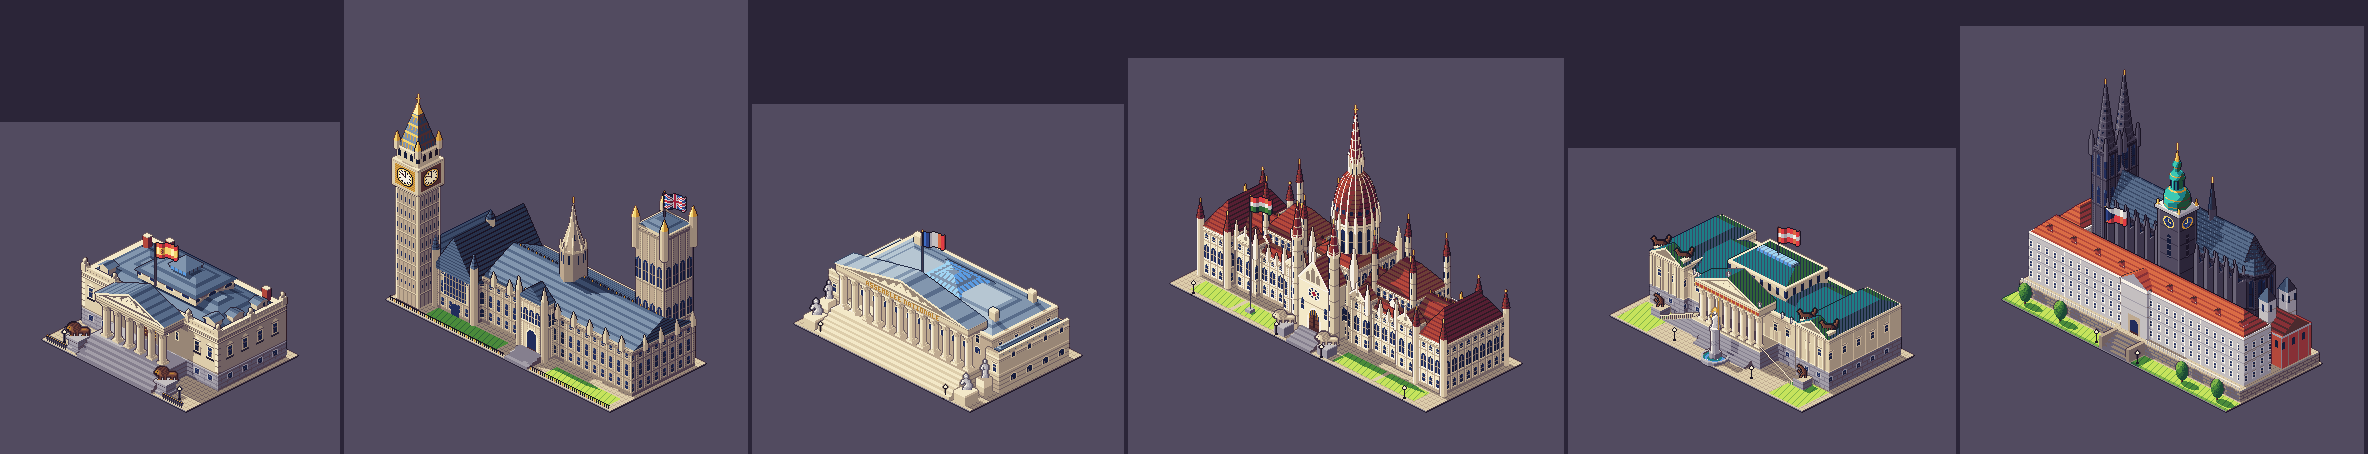
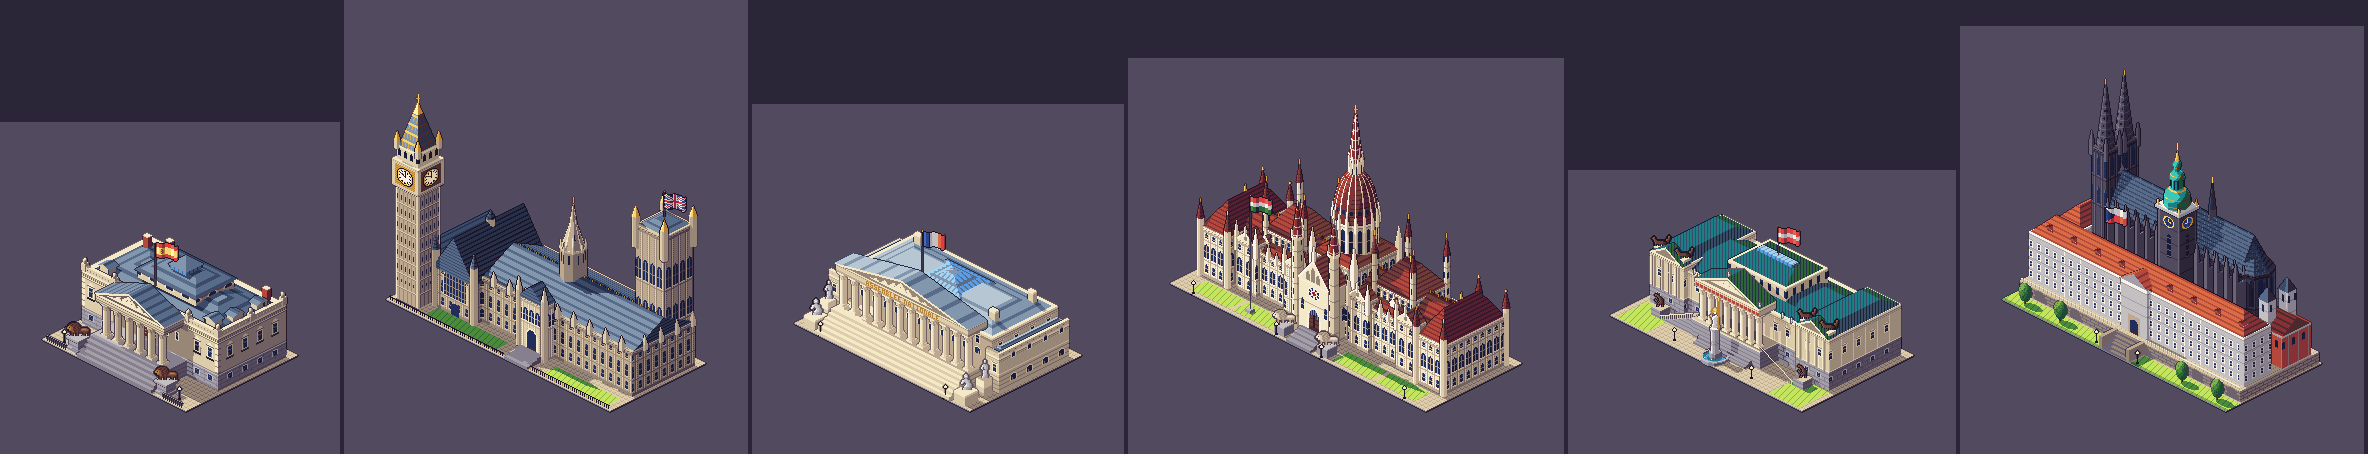
WIP checkpoint: E2, E4 Central/North, special skills (agents in progress)
Claude-Session: https://claude.ai/code/session_01XLEeR6X1vTTU7oCKGiz5UC

Changed region(s): [[0.6562, 0.3084, 0.8438, 0.4009], [0.75, 0.8634, 0.7812, 0.8943], [0.6875, 0.6784, 0.7188, 0.7093]]

diff --git a/src/art/landmarks/budapest/orszaghaz.ts b/src/art/landmarks/budapest/orszaghaz.ts
@@ -88,11 +88,11 @@ export function buildOrszaghaz(state: DamageState): Build {
   );
   const scorch = scorchZones(
     state === 3
-      ? [[4.6, 2.2, 0.9]]
+      ? [[4.6, 3.0, 1.0]]
       : state >= 4
         ? [
-            [4.4, 2.2, 1.4],
-            [11.6, 2.6, 1.2],
+            [4.5, 2.9, 1.4],
+            [11.4, 3.0, 1.2],
             [13.4, 2.2, 0.8],
             [2.2, 2.6, 0.7],
           ]
@@ -104,12 +104,12 @@ export function buildOrszaghaz(state: DamageState): Build {
       ? (u: number, v: number): boolean =>
           scorch(u, v) === 2 && hash(Math.floor(u * 3), Math.floor(v * 3)) < 0.75
       : undefined;
-  if (state >= 3) ov.push({ sprite: 'lm.fx.smoke', u: 4.6, v: 2.2, z: 84 });
+  if (state >= 3) ov.push({ sprite: 'lm.fx.smoke', u: 4.6, v: 2.9, z: 74 });
   if (state >= 4) {
-    ov.push({ sprite: 'lm.fx.fire.l', u: 4.4, v: 2.4, z: 70 });
-    ov.push({ sprite: 'lm.fx.fire.m', u: 11.6, v: 2.6, z: 72 });
+    ov.push({ sprite: 'lm.fx.fire.l', u: 4.5, v: 3.0, z: 66 });
+    ov.push({ sprite: 'lm.fx.fire.m', u: 11.4, v: 3.0, z: 66 });
     ov.push({ sprite: 'lm.fx.fire.m', u: 13.4, v: 2.4, z: 60 });
-    ov.push({ sprite: 'lm.fx.smoke', u: 11.6, v: 2.4, z: 86 });
+    ov.push({ sprite: 'lm.fx.smoke', u: 11.4, v: 2.9, z: 76 });
   }
 
   // Burning windows on the front range (upper row): soot plumes + fire overlays.
@@ -664,8 +664,8 @@ export function buildOrszaghaz(state: DamageState): Build {
   for (const u of [6.6, 9.4, 1.4, 14.6])
     s.sprite(lp.img, 2, 14, u, 5.95, 1, { emit: state >= 2 ? undefined : lp.night });
 
-  banner(s, state, 2.4, 5.6, 4.04, 30, 9, 'ELEG!');
-  banner(s, state, 10.4, 13.6, 4.04, 30, 9, 'NEM!');
+  banner(s, state, 3.7, 5.3, 4.04, 30, 9, 'ELEG!');
+  banner(s, state, 10.7, 12.3, 4.04, 30, 9, 'NEM!');
   rubble(s, state, 1.0, 15.0, 4.1, 4.7, 1, 14, seed);
   rubble(s, state, 6.5, 9.5, 5.0, 5.9, 1, 8, seed + 1);
   if (state >= 4) {

diff --git a/src/art/landmarks/budapest/landmarks.ts b/src/art/landmarks/budapest/landmarks.ts
@@ -449,7 +449,7 @@ function kossuth(): Build {
 
 export const LANDMARKS_BUDAPEST: Readonly<Partial<Record<LandmarkId, SecondaryArt>>> = {
   stStephens: { top: 108, frames: 1, fps: 0, build: stStephens },
-  budaCastle: { top: 84, frames: 1, fps: 0, build: budaCastle },
+  budaCastle: { top: 92, frames: 1, fps: 0, build: budaCastle },
   fishermansBastion: { top: 60, frames: 1, fps: 0, build: fishermansBastion },
   kossuth: { top: 44, frames: 1, fps: 0, build: kossuth },
 };

diff --git a/src/art/landmarks/vienna/index.ts b/src/art/landmarks/vienna/index.ts
@@ -9,7 +9,7 @@ import { LANDMARKS_VIENNA } from './landmarks';
 import { buildParlament, PARLAMENT_D, PARLAMENT_W } from './parlament';
 
 export const vienna: LandmarkCity = {
-  capitol: { w: PARLAMENT_W, d: PARLAMENT_D, top: 72, build: buildParlament },
+  capitol: { w: PARLAMENT_W, d: PARLAMENT_D, top: 50, build: buildParlament },
   stepStone: R.granite,
   landmarks: LANDMARKS_VIENNA,
   flags: { at: AUSTRIA },

diff --git a/src/maps/cities/prague.ts b/src/maps/cities/prague.ts
@@ -626,6 +626,8 @@ export const prague: Blueprint = {
   labels: [
     { text: 'Hradčany', at: [2, 4] },
     { text: 'Petřín', at: [8, 32] },
-    { text: 'Vltava', at: [43, 50] },
+    { text: 'Václavské náměstí', at: [60, 44] },
+    { text: 'Staroměstské náměstí', at: [57, 12] },
+    { text: 'Malá Strana', at: [30, 24] },
   ],
 };

diff --git a/src/maps/cities/vienna.ts b/src/maps/cities/vienna.ts
@@ -614,6 +614,5 @@ export const vienna: Blueprint = {
     { text: 'Volksgarten', at: [40, 34] },
     { text: 'Heldenplatz', at: [30, 34] },
     { text: 'Innere Stadt', at: [50, 58] },
-    { text: 'Donaukanal', at: [74, 50] },
   ],
 };

diff --git a/src/maps/cities/budapest.ts b/src/maps/cities/budapest.ts
@@ -649,7 +649,6 @@ export const budapest: Blueprint = {
   noLanes: [rect(23, 22, 58, 42)],
 
   labels: [
-    { text: 'Duna', at: [40, 14] },
     { text: 'Várhegy', at: [14, 1] },
     { text: 'Margitsziget', at: [71, 12] },
   ],

diff --git a/docs/art/E4-central.md b/docs/art/E4-central.md
@@ -1,0 +1,78 @@
+# E4 Central: Capitols and landmarks for Budapest, Vienna and Prague
+
+Source: `src/art/landmarks/{budapest,vienna,prague}/`. Each folder has an `index.ts` (`LandmarkCity`),
+the Capitol builder, `landmarks.ts`, `flag.ts`, and `sprites.grid.ts` for the hand-drawn figures where the city has any. All three are
+registered in `src/art/landmarks/cities.ts` with one line each. Gallery: `gallery.html?group=landmarks&filter=budapest`
+(also `vienna` and `prague`). Previews: `docs/progress/e4-central-*.png`:
+
+- `capitols-vs-m3b`: the six Capitols at 1×, state 0, Congreso, Westminster and Bourbon first.
+- `damage`: states 0→4 for each new Capitol.
+- `landmarks`: all 11 secondary landmarks at 1×.
+- `night`: the night-lights masks over a darkened sprite.
+
+Everything follows docs/art/M3b.md: the analytic iso ray-caster (`engine/`), 5-level RIOT-64 ramps,
+light from the upper left, coloured outlines and cast shadows. Each sprite is anchored on its footprint's top vertex and
+faces +v (the lit SW side). Each landmark has `.night` and `.shadow` sprites. The Capitols also have a `.steptile`.
+
+## Capitols: `lm.capitol.<city>.<0-4>`
+
+| City     | Building                         | Footprint | Sprite  | Anchor    | Identity cues                                                                                                                                                                                                                                                                                                                                                                                                                                                                                 |
+| -------- | -------------------------------- | --------- | ------- | --------- | --------------------------------------------------------------------------------------------------------------------------------------------------------------------------------------------------------------------------------------------------------------------------------------------------------------------------------------------------------------------------------------------------------------------------------------------------------------------------------------------- |
+| budapest | Országház (Hungarian Parliament) | 16×6      | 356×316 | (98, 138) | white Süttő-limestone neo-Gothic range; 16-sided drum with lancets and a pinnacle crown; ribbed ogival red-brown dome; lantern and tall ribbed spire; two chamber blocks with steep roofs and 4 slender towers each; end pavilions with corner turrets; gabled risalits; a pinnacle on every buttress; Kossuth tér entrance with a pointed gable, rose window and portal, flanked by two slender spire-towers; lion stair; lawns; the big Kossuth tér flagpole                                |
+| vienna   | Parlament (Austrian Parliament)  | 12×7      | 308×204 | (114, 50) | octastyle Corinthian portico on a podium with a red-ground gilt frieze and relief pediment; two ramps with balustrades and horse tamers at their feet; corner pavilions with pediments and half-columns; bronze quadrigas on the pavilion corners; attic statues; central hall clerestory; green copper roofs; the **Pallas Athene fountain** (gilded helmet, spear, Nike, marble column-plinth, basin) in front                                                                              |
+| prague   | Pražský hrad and St Vitus        | 14×6      | 324×348 | (98, 186) | long pale south front of the palace on its terrace wall, with 4 window rows, a central risalit and a gate; terracotta roofs and dormers; the New Castle Steps; garden balustrade and trees; behind it, the dark St Vitus with twin west spires, nave, flying buttresses, apse and crossing flèche, a diamond-patterned slate roof, and the **Great South Tower** with gilt clocks and a stacked green copper Renaissance helmet; St George's Basilica (red front, two pale towers); west wing |
+
+Top margins are trimmed to the tallest point. Overlay offsets come from `landmarkOverlays()`.
+
+| State | Budapest                                                                                                                                                                                                                                                                                | Vienna                                                                                                                                                                                            | Prague                                                                                                                                                                                                    |
+| ----- | --------------------------------------------------------------------------------------------------------------------------------------------------------------------------------------------------------------------------------------------------------------------------------------- | ------------------------------------------------------------------------------------------------------------------------------------------------------------------------------------------------- | --------------------------------------------------------------------------------------------------------------------------------------------------------------------------------------------------------- |
+| 0     | pristine, `lm.flag.hu`                                                                                                                                                                                                                                                                  | pristine, `lm.flag.at`                                                                                                                                                                            | pristine, `lm.flag.cz`                                                                                                                                                                                    |
+| 1     | graffiti and posters on the range, pavilions, porch, stair and lion pedestals; banners `ELEG!` / `NEM!`                                                                                                                                                                                 | graffiti on the pavilions, podium, ramps and stair; banners `GENUG!` / `NEIN!`                                                                                                                    | graffiti on the terrace wall, palace and steps; banners `DOST!` / `NE!`                                                                                                                                   |
+| 2     | about 60 % of windows smashed (including the drum and rose window); rubble; lamps out; lawns trampled; flag `.torn`                                                                                                                                                                     | the same; skylight smashed                                                                                                                                                                        | the same                                                                                                                                                                                                  |
+| 3     | burning and gutted windows with soot plumes and fire overlays; one chamber roof scorched with smoke; dome scorched; one lion toppled                                                                                                                                                    | burning windows and soot; a pavilion roof scorched with smoke; pediment relief sooted; frieze darkened; one quadriga thrown onto the ground; one horse tamer gone                                 | burning windows and soot; palace roof scorched with smoke                                                                                                                                                 |
+| 4     | roofs burnt through, with embers on the wall tops and 3 fires; holes torn in the range; dome holed and burning; the **dome spire snapped** (fire and smoke on the stump); a portal tower and a chamber tower broken; pinnacles knocked off; both lions down; debris; flagpole shortened | 2 columns broken with fallen drums; gap in the entablature and pediment; wall holes; roofs burnt through; **Athena toppled into her basin**; quadrigas and attic statues gone; flagpole shortened | palace roof burnt through in two places; wall holes; **the green helmet of the Great South Tower snapped and burning**; one west spire broken; nave roof on fire; a garden tree burnt; flagpole shortened |
+
+Night (`lm.capitol.<city>.night`, state 0): lit windows, the drum and lucarnes. Budapest's dome
+ribs and spire ribs are floodlit gold. Vienna's portico columns are floodlit and the Athena statue is lit. In Prague the St Vitus lancets and the
+Great South Tower clocks glow. The step tiles use granite for Budapest and Vienna and the terrace stone for Prague.
+
+## Secondary landmarks: `lm.<id>`
+
+| id                | Footprint | Sprite  | Anchor     | Notes                                                                                                                                                                                                                                                                                                                         |
+| ----------------- | --------- | ------- | ---------- | ----------------------------------------------------------------------------------------------------------------------------------------------------------------------------------------------------------------------------------------------------------------------------------------------------------------------------- |
+| stStephens        | 5×7       | 196×206 | (114, 108) | Greek cross in sandstone; great dark-copper dome on a pilastered drum with a lucarne ring, lantern and cross; twin bell towers with clocks, belfries and copper caps; hexastyle portico with pediment and stair on the +v front                                                                                               |
+| budaCastle        | 12×5      | 276×230 | (82, 92)   | castle-hill retaining wall (rusticated, buttressed, gate) with a terrace balustrade; long neo-baroque palace with end pavilions; central portico risalit; columned drum; green copper dome and lantern; Turul on its pillar; trees                                                                                            |
+| fishermansBastion | 8×3       | 180×150 | (50, 60)   | white neo-Romanesque arcade (see-through arches); crenellated walkway; lower terrace with a stair; 7 turrets with stone-scale conical roofs, the middle one tallest with little cones around it                                                                                                                               |
+| kossuth           | 2×2       | 68×78   | (34, 44)   | stepped granite base; marble pedestal with bronze reliefs; bronze Kossuth with 4 ministers at his feet                                                                                                                                                                                                                        |
+| rathaus           | 10×6      | 260×248 | (98, 118)  | neo-Gothic: arcaded loggia; lancet rows; Wimperg gables; end pavilions with steep pyramid roofs and turrets; 4 flanking towers; central tower with portal, balcony, clock, octagonal stage, spire and the gilt **Rathausmann**                                                                                                |
+| hofburg           | 12×5      | 276×230 | (82, 92)   | **concave Neue Burg wing**: 14 chord segments of one arc; rusticated ground floor; shaded loggia behind a paired colonnade; attic statues; end pavilions; green copper dome behind; small Austrian flag (`lm.flag.at.small`)                                                                                                  |
+| stephansdom       | 7×4       | 180×246 | (66, 156)  | steep glazed-tile roof with yellow/green/white/black **zigzag bands**; a 2× **double-headed eagle** mosaic over the choir; Wimperg gables; Heidentürme; north tower with its Renaissance cap; the **Steffl** south tower with an octagonal belfry, crocketed openwork spire and cross                                         |
+| bridgeTower       | 2×2       | 68×148  | (34, 114)  | dark Gothic tower; pointed gate arch cut right through (along v); sculpture gallery and heraldic band; steep slate cap with 4 corner turrets and a dormer                                                                                                                                                                     |
+| oldTownHall       | 5×3       | 132×182 | (50, 116)  | tower with ashlar, gallery and Gothic cap; **Orloj** with an astronomical dial (blue day sky, dark night, gilt ring, off-centre zodiac ring, hand) and a calendar dial below; apostle windows; canopy; flanking figures; oriel chapel; 3 house fronts (one is the sgraffito House at the Minute); the gilt Renaissance window |
+| tynChurch         | 4×3       | 116×220 | (50, 162)  | dark nave with a very steep slate roof; two separated towers, each crowned by a main spire, 8 spirelets and gilt finials; west gable with the gilt Madonna; Týn school with an arcade and gable                                                                                                                               |
+| dancingHouse      | 3×2       | 84×108  | (34, 66)   | "Fred": cream panels, wavy cornice lines and staggered windows; the twisted-mesh **Medusa** dome; "Ginger": pinched glass hourglass on slender legs                                                                                                                                                                           |
+
+The secondary landmarks are static (1 frame). All the art is RIOT-64 only (`tests/palette-compliance.test.ts`).
+
+## Flags
+
+| code | Design                                                        |
+| ---- | ------------------------------------------------------------- |
+| `hu` | red, white, green (horizontal)                                |
+| `at` | red, white, red                                               |
+| `cz` | white over red with the blue wedge to the middle of the cloth |
+
+## Verification
+
+- `tests/landmarks-art.test.ts`, `tests/palette-compliance.test.ts` and `tests/landmarks-preview.test.ts` pass
+  (SPECS entries for the three cities were added).
+- In `tests/cities-complete.test.ts`, the Capitol, flags and landmark checks for budapest and vienna pass. Prague's
+  blueprint was not registered yet when this was written.
+- The pieces were iterated at 3–4× and compared at 1× against Congreso, Westminster and Bourbon (`capitols-vs-m3b`).
+
+## Known gaps
+
+- The Hofburg's dome is a generic green Hofburg dome (Michaelerkuppel-style). It does not stand where it would on a
+  real map of the Neue Burg.
+- Ginger's glass has no floor-slab banding. Fred's windows only approximate the real irregular pattern.
+- Only state 0 has a night mask, as for the M3b Capitols.

diff --git a/docs/E2-central.md b/docs/E2-central.md
@@ -100,10 +100,11 @@ The outer districts come round the Parlament's flanks or down the Ring.
   Ring from the Volksgarten. The Ring legs (Universitätsring, Burgring, Opernring) feed them.
 - **Chokepoints:** Stadiongasse, Schmerlingplatz and Löwelstraße.
 - **Spawn waves:**
-  - W1: Josefstadt via Stadiongasse, and Neubau via Museumstraße or Reichsratsstraße to
-    Schmerlingplatz.
-  - W2: Alsergrund.
-  - W3: Wieden, via the Opernring and Burgring.
+  - W1: Neubau via Museumstraße or Reichsratsstraße to Schmerlingplatz, and Wieden via the
+    Opernring and Burgring. These are the two longer marches; Josefstadt sits right behind the
+    Parlament, only 30 tiles from the steps.
+  - W2: Josefstadt, via Landesgerichtsstraße and Stadiongasse.
+  - W3: Alsergrund, via Landesgerichtsstraße and Stadiongasse.
   - W4: Innere Stadt, via Löwelstraße.
   - W6: Mariahilf, via Mariahilfer Straße.
 
@@ -158,7 +159,51 @@ the panorama over the Malá Strana roofs, faces +j onto the **Na Valech** rampar
 
 ## Verification
 
-FLOW_PLACEHOLDER
+- **Validators:** `validateMap` reports no errors for seeds 0–12 in all three cities, and
+  `npx vitest run tests/maps-blueprints.test.ts -t "budapest|vienna|prague"` passes (47 tests).
+  Every spawn door and rally point reaches the steps, and every final approach is redundant.
+- **Headless playtests:** `npm run playtest -- --cities <city> --bots balanced --seeds 1 --minutes 10`
+  runs without errors for all three. At 10 minutes the Capitol's integrity is 100% in Budapest,
+  53% in Vienna and 98% in Prague. For comparison, London is at 41% and Paris at 69% with the
+  same probe on the current tree.
+
+  I also ran full-length games (balanced bot, seeds 1–2). Budapest won once (51 min, integrity
+  never below 100%) and lost once (13 min). Vienna lost twice (12 and 14 min) and Prague lost
+  twice (32 and 34 min). The original cities show the same spread on the current tree: Madrid
+  won once and lost once (47 min), London lost at 9 and 11 min, and Paris lost at 16 and 31 min.
+  Per-city balance is left to E6.
+
+- **Crowd flow:** I ran a 10-minute balanced-bot game and counted the unique protesters seen on
+  each chokepoint and approach. Protesters do use the bridges and chokepoints.
+
+  **Budapest**
+  - Alkotmány utca: 83 protesters, from Terézváros and Erzsébetváros, the two wave-1 districts.
+  - Nádor utca: 66, from Erzsébetváros and Belváros.
+  - Falk Miksa utca: 41, from Újlipótváros.
+  - Széchenyi Lánchíd: 36, from Víziváros.
+  - Margit híd: 72, from Rózsadomb and northern Víziváros.
+  - Andrássy út also carries part of Erzsébetváros.
+
+  **Vienna**
+  - Stadiongasse: 110, from Josefstadt and Alsergrund.
+  - Schmerlingplatz: 45, from Neubau, Wieden and Mariahilf.
+  - Löwelstraße: 37, all from the Innere Stadt.
+  - The Burgring and Opernring carry Wieden.
+  - The crossing over the Ring from the Volksgarten is never chosen. It stays as a redundant way
+    in.
+
+  **Prague**
+  - Mánesův most: 100, from Josefov and the north of the Old Town.
+  - Karlův most: 22–52, from the Staré Město.
+  - Most Legií: Nové Město and Vinohrady.
+  - Nerudova: 87.
+  - Ke Hradu: 81, from Hradčany and Malá Strana.
+  - Old Castle Steps: 63.
+  - Zámecké schody: 20–27.
+
+- **Visual checks:** I took flat-colour viewer screenshots (above) and flat-iso viewer screenshots,
+  and an in-game shot with the stand-in art. Kossuth tér reads as Kossuth tér, with the
+  Országház art that E4 already has in progress.
 
 ## Known simplifications
 
@@ -176,3 +221,24 @@ FLOW_PLACEHOLDER
 - **No city-only decor kinds are used.** Every kind is shared (flag, lamp, statue, statue.lion,
   statue.equestrian, fountain, metro, kiosk, boat, tree.*), so each city resolves its props through
   `PROP_FALLBACK` until E3 adds its own.
+
+## Requested shared changes
+
+1. **A bug in the tool-side flow field** (`src/maps/flow.ts`, shared). `distanceField` stores its
+   distances in a `Float32Array` but pushes the float64 sum onto the heap. When the float32 copy
+   rounds down, the pop-time check `d > dist[k]` discards the node, so it is never expanded.
+   - **Effect:** with `costs: true`, whole regions reached only through cobble, grass or parkPath
+     (costs 1.1, 1.6, 1.2) come back as `Infinity`. Madrid's La Latina rally is one example
+     already.
+   - **Who notices:** the validator's `choke.flow` check (which follows costed routes) and the
+     viewer's heat map. The game is not affected: `src/sim/nav.ts` already has the fix ("push the
+     float32-rounded value").
+   - **Fix (one line):** push `dist[to]` after storing it, `heap.push(dist[to]!, to)`, or keep a
+     `Float64Array`.
+   - **Workaround in these blueprints:** the streets on validated routes use cost-1 surfaces.
+     Prague's stairways and Nerudova are paved (`plaza`), not `cobble`, and the rally points sit
+     on asphalt or plaza.
+2. **Optional: deployable stair tiles.** A ground for stairs that is both walkable and
+   `PLACEABLE_ROAD` would let E3 draw Prague's Zámecké schody and Staré zámecké schody as real
+   steps. Today the only `steps` tiles belong to the Capitol, and they are excluded from
+   `AreaGround` and from road surfaces.

diff --git a/docs/E2-south.md b/docs/E2-south.md
@@ -231,6 +231,48 @@ decor kind plus E3 art: a `tree.palm` for Barcelona's seafront and Plaça Reial,
 - Playtest (`npm run playtest -- --cities <id> --bots balanced --seeds 1 --minutes 10`): see
   _Playtest_ below.
 
+## Playtest
+
+`node tools/playtest.mjs --cities rome,barcelona,milan --bots balanced --seeds 1 --minutes 10`
+ran all three cities for 10 simulated minutes without errors. Madrid and Paris were run with the
+same settings for comparison.
+
+| City      | waves | peak crowd | spawned | min Capitol integrity | rams | climbs | ms/tick |
+| --------- | ----- | ---------- | ------- | --------------------- | ---- | ------ | ------- |
+| Rome      | 9     | 68         | 423     | 99 %                  | 13   | 9      | 1.37    |
+| Barcelona | 9     | 63         | 420     | 100 %                 | 10   | 2      | 1.40    |
+| Milan     | 8     | 66         | 371     | 85 %                  | 16   | 0      | 1.58    |
+| Madrid    | 9     | 67         | —       | 100 %                 | 5    | 0      | 0.97    |
+| Paris     | 9     | 76         | —       | 69 %                  | 38   | 12     | 1.12    |
+
+The machine was heavily loaded by parallel agents, so treat ms/tick as relative only.
+
+**Crowd flow:** each district's costed shortest route to the steps, from the exact field.
+- **Rome:** the crowds funnel into three alleys.
+  - Monti (69) and Esquilino (52) come up the Corso through Piazza Colonna. The bots' riot
+    lines meet them at Largo Chigi.
+  - Prati (47, over Ponte Umberto I) and Flaminio (35, down Via di Ripetta) take Via della Scrofa
+    into Via degli Uffici del Vicario.
+  - Testaccio (57) and Trastevere (68, over Ponte Sisto) come up through Campo de' Fiori. They
+    split between Via della Rotonda → Via della Maddalena and Corso del Rinascimento →
+    Uffici del Vicario (near-equal costs), so the Pantheon side stays busy.
+  - The rooftops along the Corso and the centro carry the snipers (9 climbs: protesters scale
+    the low palazzi).
+- **Barcelona:** the park railings make the three gates the only ways in.
+  - Poblenou (26) and Sant Martí (58) use Carrer de Wellington.
+  - L'Eixample (48) marches down Passeig de Sant Joan, under the Arc de Triomf and along Lluís
+    Companys.
+  - El Raval (57), La Barceloneta (44) and Gràcia (90, via Passeig de Gràcia → Plaça de
+    Catalunya → Ronda de Sant Pere → Passeig de Picasso) converge on the Portal de Picasso.
+  - The long park avenues give defenders depth; the Capitol was never seriously threatened in
+    10 minutes.
+- **Milan:** the shortest routes, with four entries into a small piazza.
+  - Porta Venezia (32) and Isola (38) come down Via Manzoni, and Brera (37) down Via Verdi.
+  - Città Studi (47) arrives along Corso Vittorio Emanuele II via San Babila and Via Marino.
+  - Navigli (59, via Via Torino) and Sant'Ambrogio (46, via Cordusio/Piazza dei Mercanti) cross
+    Piazza del Duomo and squeeze past the Galleria on Via Silvio Pellico.
+  - The short Manzoni/Verdi legs explain the deeper integrity dip (85 %, still above Paris's 69 %).
+
 ## Known issue found: `src/maps/flow.ts` costed fields drop cobbled tiles
 
 `distanceField` stores distances in a `Float32Array` but keys the heap with the unrounded float64
